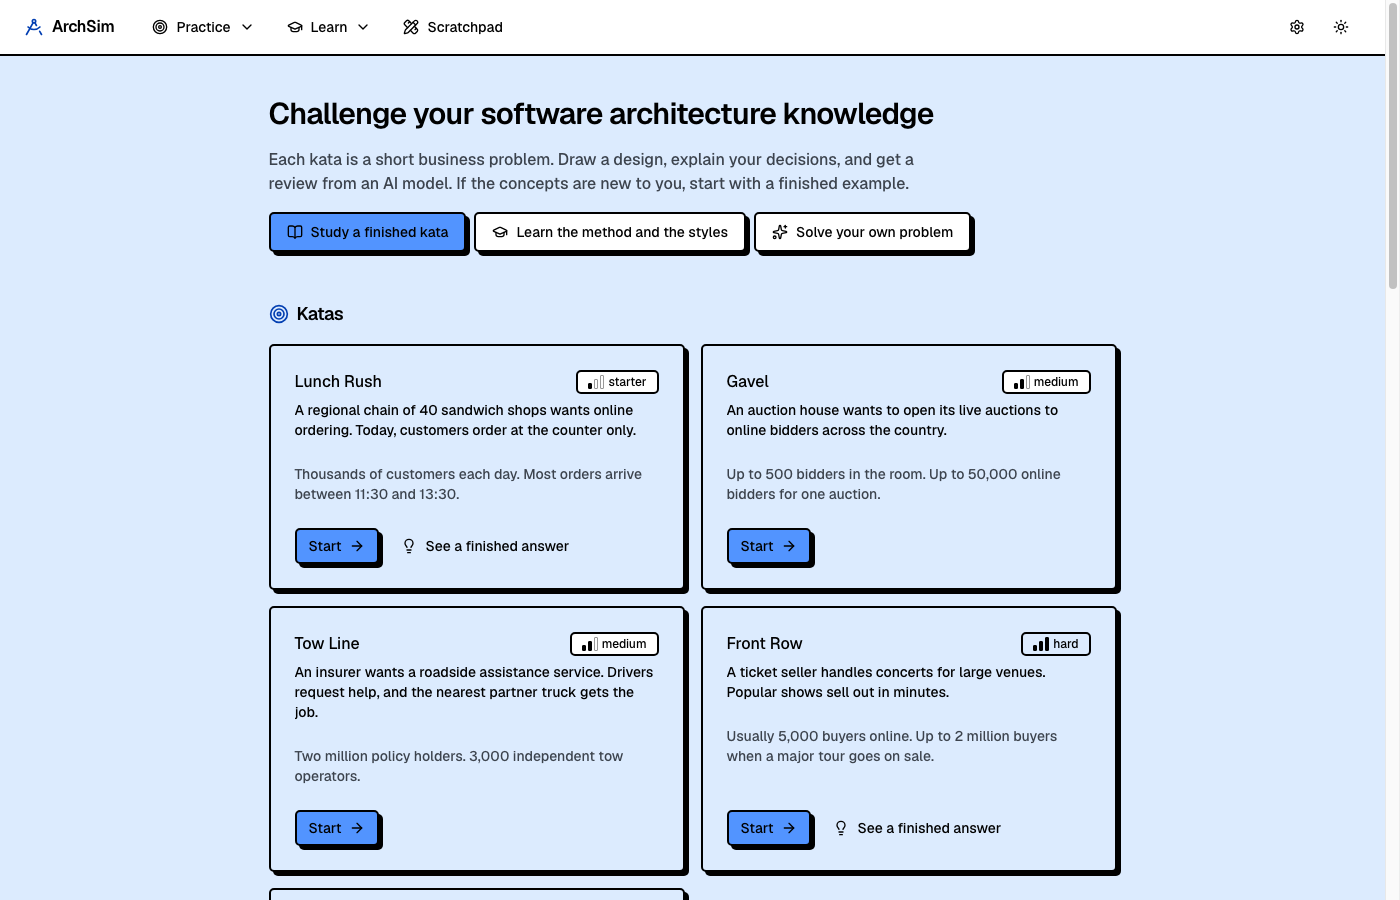
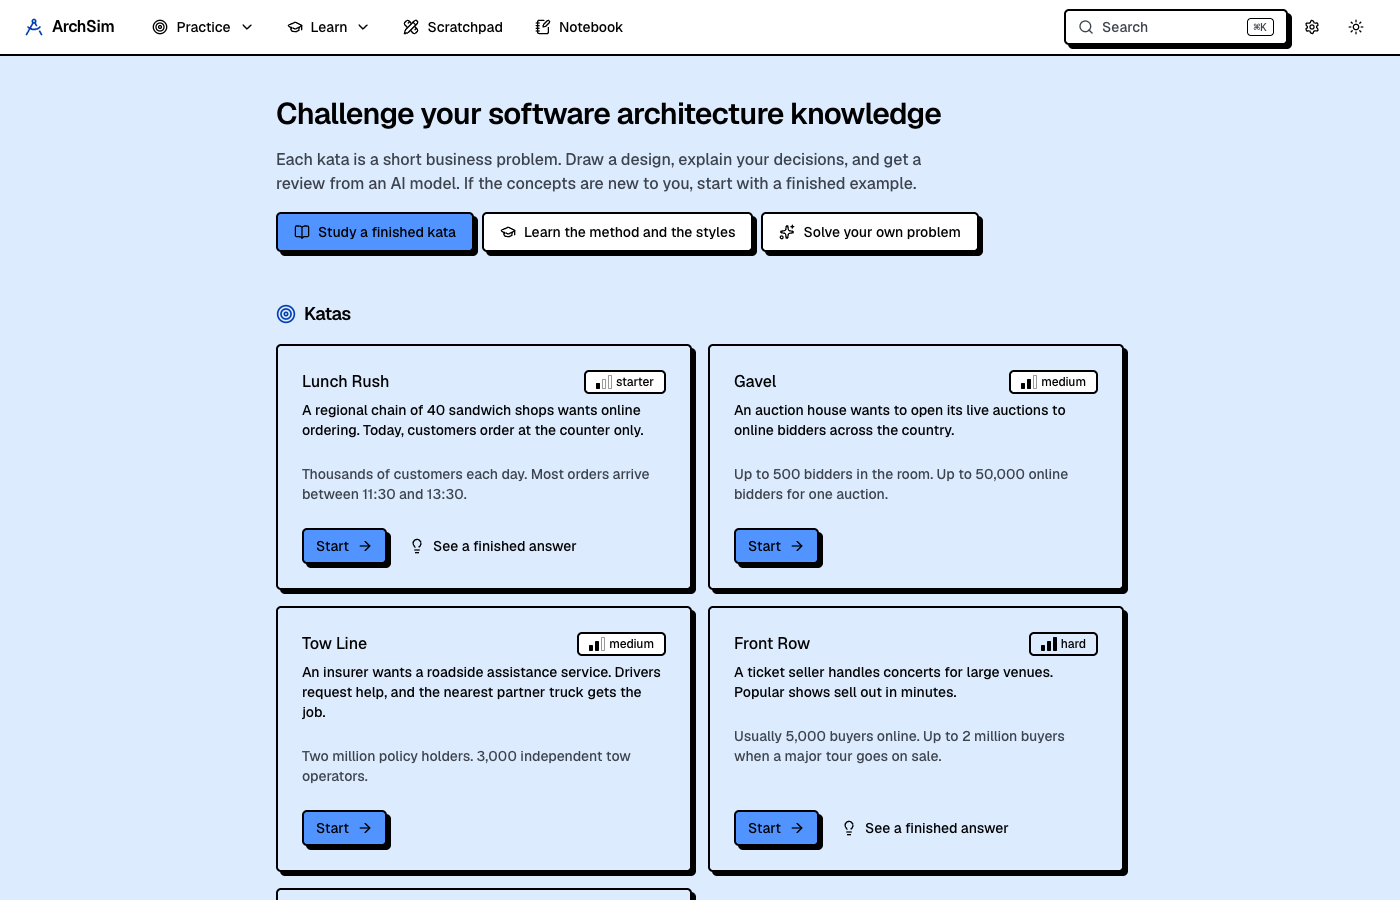
Update the screenshots to the current interface
- Take the six screenshots again from the running app.
- Show the course sidebar, the notebook sidebar, search, and the Notebook menu.
- Describe the course sidebar on the website and in the README.

diff --git a/docs/index.html b/docs/index.html
@@ -563,6 +563,11 @@
                   and objectives.
                 </li>
                 <li>
+                  <strong>A sidebar for the whole course:</strong> the nine sections in order, your
+                  progress in each one, and a filter to find a page. The notebook sits on the other
+                  side of the lesson.
+                </li>
+                <li>
                   <strong>Design inside one application:</strong> hexagonal, clean, vertical slices,
                   domain models, CQRS.
                 </li>
@@ -583,7 +588,7 @@
             <div class="box shot" style="margin-top: 0">
               <img
                 src="screenshots/learn.png"
-                alt="A lesson page about hexagonal architecture, in the dark theme"
+                alt="A lesson about hexagonal architecture in the dark theme, with the course sidebar on the left and the notebook on the right"
                 width="1400"
                 height="900"
                 loading="lazy"

diff --git a/README.md b/README.md
@@ -46,6 +46,7 @@ There is no single correct answer to a kata. The reviewer grades the quality of 
 ### Learn
 
 - **87 lessons in nine sections** on the knowledge areas of a senior architect: trade-off analysis, characteristics, structure and styles, data and consistency, communication, reliability and operations, and the work with teams. Each lesson has a level, a reading time, and objectives.
+- **A course sidebar.** The sections are numbered in reading order. The sidebar shows your progress in each section and has a filter to find a page. The notebook sits on the other side of the lesson.
 - **Design inside one application.** Hexagonal, clean, and onion architecture, vertical slices, domain model patterns, CQRS, and event sourcing, with a clear line between system architecture and application architecture.
 - **22 system design cases**, each a short case study of a known type of system.
 - **Walkthroughs.** Some lessons explain one diagram in steps, for example a cache that fails and a saga that compensates. Use the buttons or the arrow keys.
@@ -68,7 +69,7 @@ There is no single correct answer to a kata. The reviewer grades the quality of 
 - **Vocabulary drill.** Explain the glossary terms in your own words. Spaced repetition brings back the terms you missed. An optional AI check says what your explanation covers and what it misses.
 - **Behavioral interviews and the story bank.** A lesson on behavioral interviews, and a story bank in the notebook. Write true work stories in the STAR form and tag each one with competencies. The bank shows which of the 11 competencies have no story yet. In the drill, a behavioral answer can start from a saved story, and the model grades it as a story.
 
-![A lesson page in the dark theme](docs/screenshots/learn.png)
+![A lesson about hexagonal architecture in the dark theme, with the course sidebar and the notebook](docs/screenshots/learn.png)
 
 ![A worked example with its diagram](docs/screenshots/worked-example.png)
 
